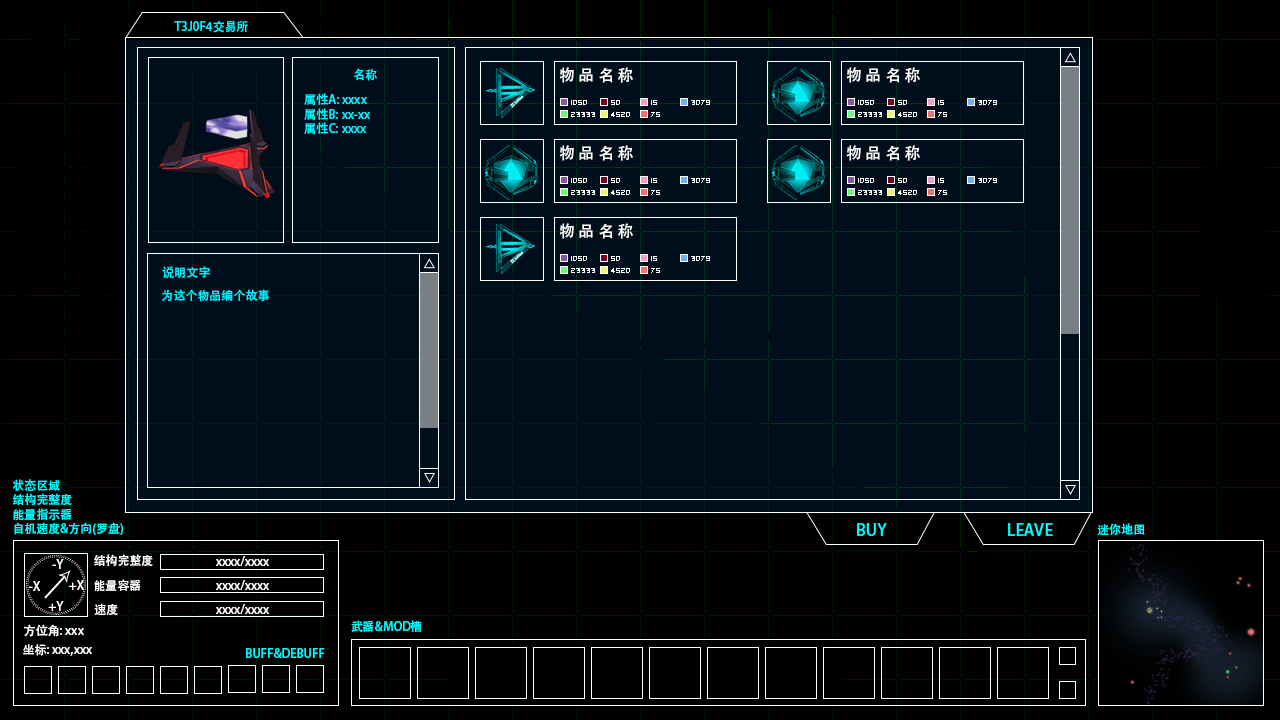
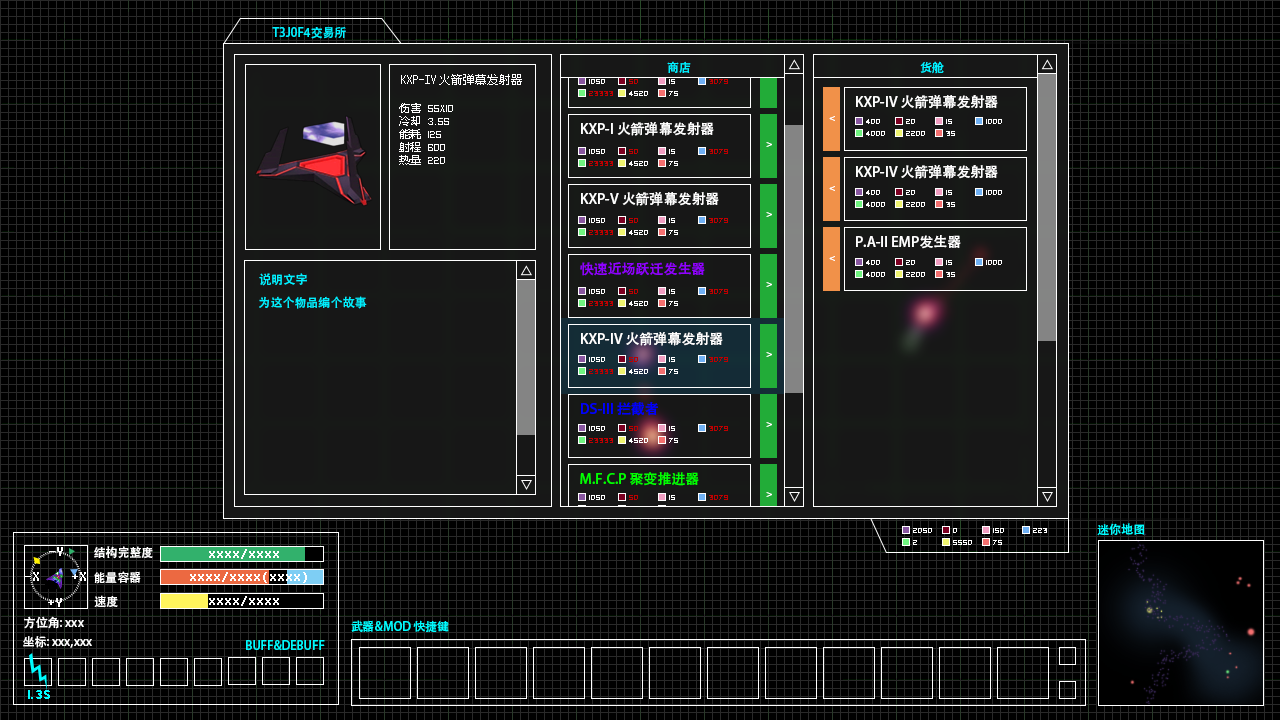
添加交易与工坊的界面设计图

diff --git a/docs/guide.md b/docs/guide.md
@@ -239,9 +239,7 @@ HACK到武器系统后，可直接关闭武器系统。
 
 没有货币。所有交易均分别显示置换物品所需的各种资源的数量。玩家可选择用某种资源去置换。
 
-#### 置换
-
-![](trade.png)
+#### 
 
 # 界面
 
@@ -282,6 +280,18 @@ HACK到武器系统后，可直接关闭武器系统。
 下图为安装了光学雷达与火控雷达的效果图。
 
 ![](opt+fc.png)
+
+
+
+### 交易
+
+![](trade.png)
+
+
+
+### 工坊
+
+![](ship_engineering.png)
 
 
 
